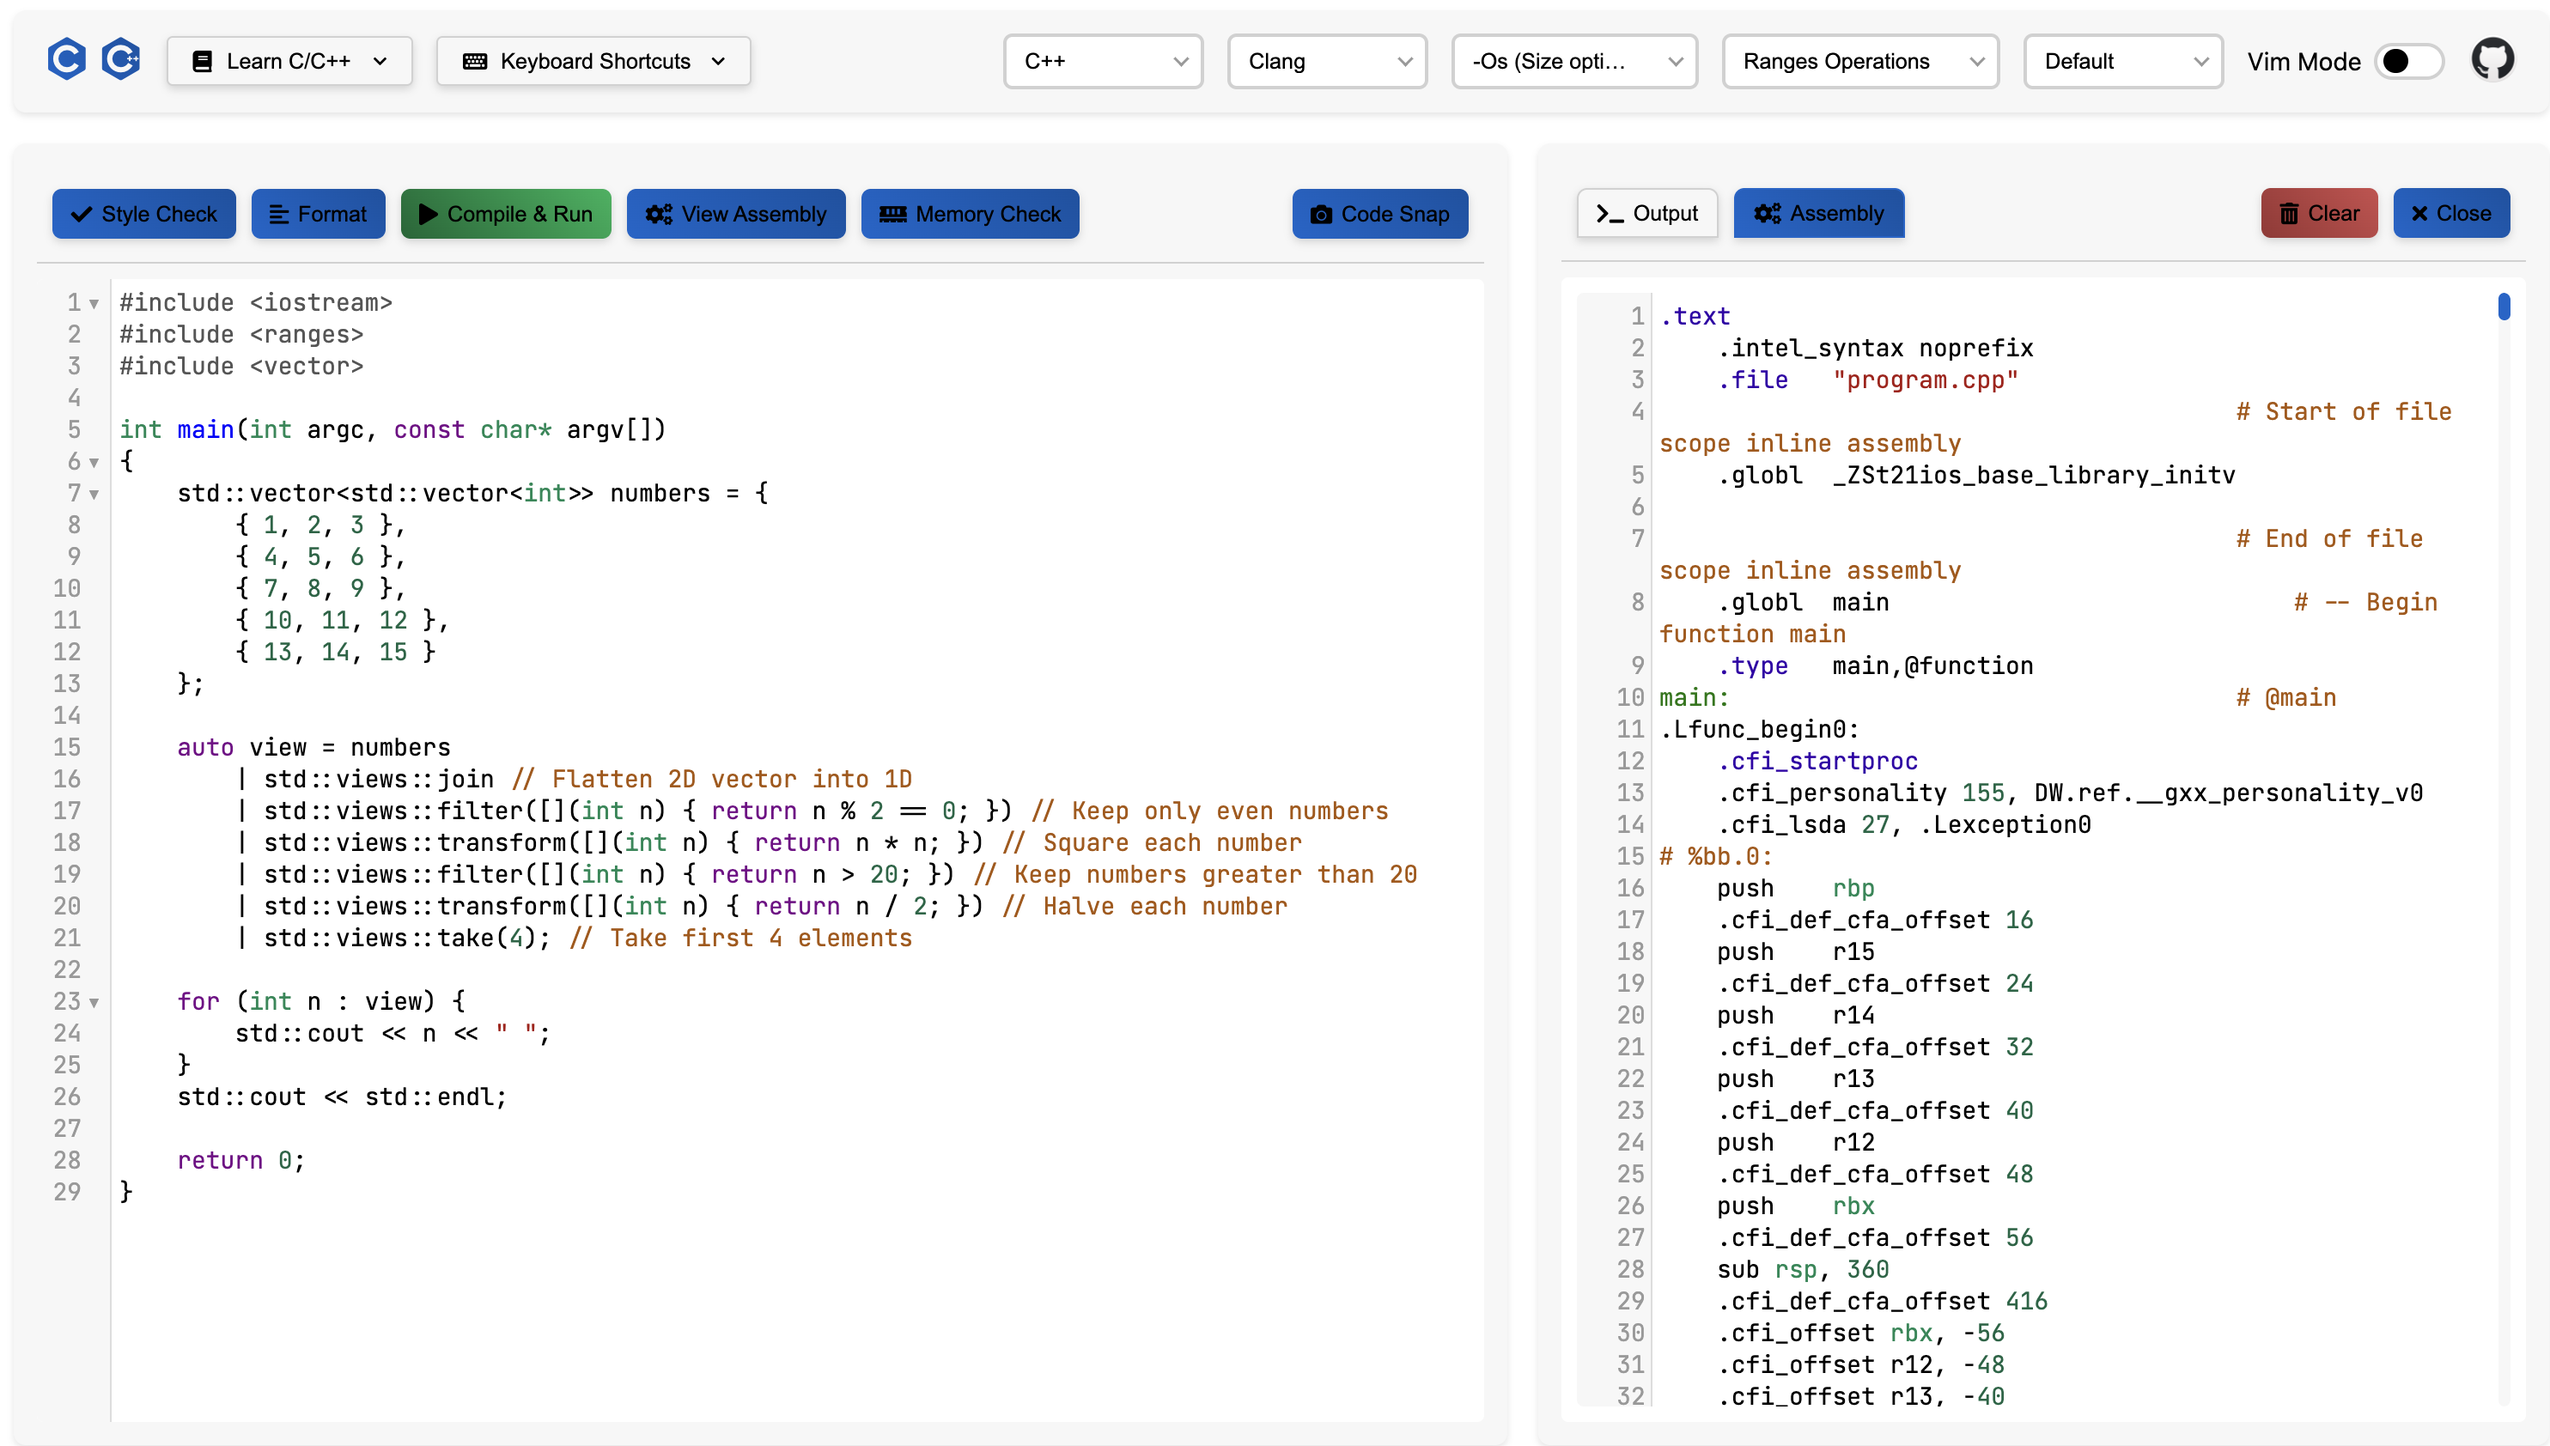
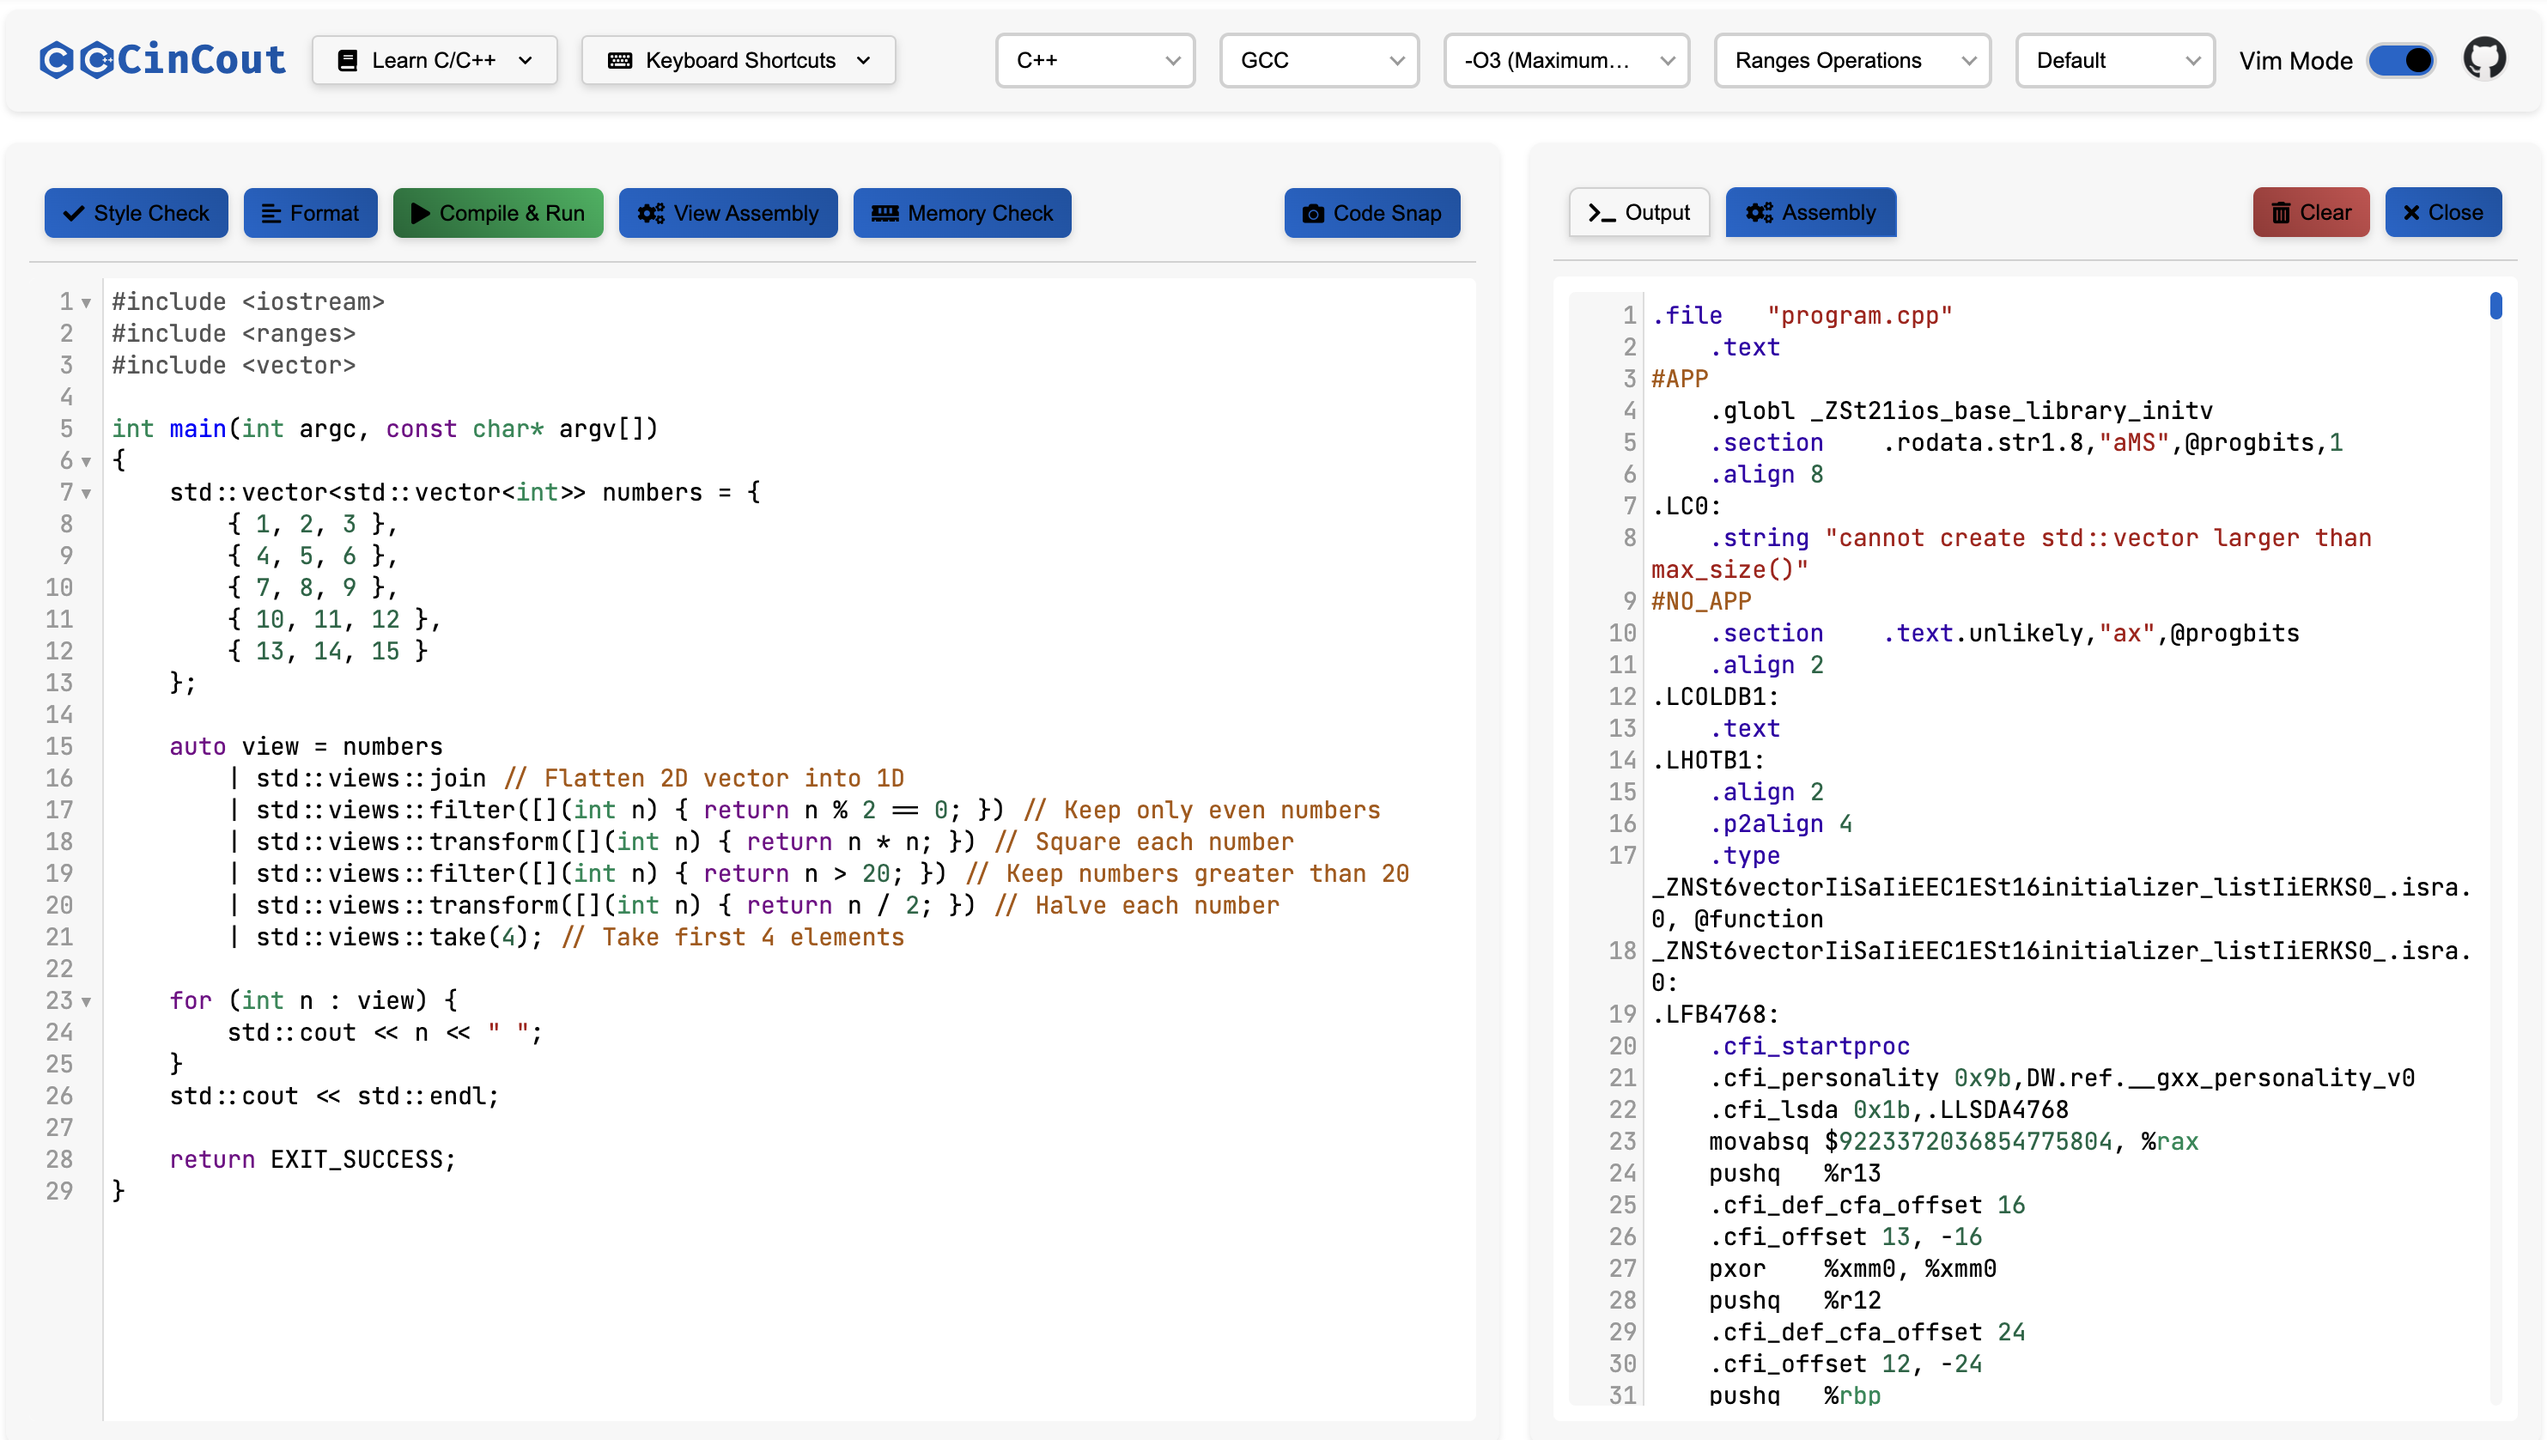
feat: add Dockerfile for containerized deployment and update README with Docker instructions

diff --git a/frontend/index.html b/frontend/index.html
@@ -81,14 +81,7 @@
 
                 <select id="template"></select>
                 <select id="theme-select">
-                    <option value="default">Default</option>
-                    <option value="nord">Nord</option>
-                    <option value="dracula">Dracula</option>
-                    <option value="monokai">Monokai</option>
-                    <option value="material">Material</option>
-                    <option value="ayu-dark">Ayu Dark</option>
-                    <option value="gruvbox-dark">Gruvbox Dark</option>
-                    <option value="seti">Seti</option>
+                    <!-- Theme options will be dynamically generated by script -->
                 </select>
             <div class="toggle-container">
                 <span>Vim Mode</span>

diff --git a/backend/src/routes/compile.ts b/backend/src/routes/compile.ts
@@ -247,7 +247,7 @@ router.post('/', async (req: Request, res: Response) => {
     try {
       if (action === 'assembly' || action === 'both') {
         // Generate assembly code
-        const asmCmd = `${compiler} -S -masm=intel -fno-asynchronous-unwind-tables ${optimizationOption} ${standardOption} "${sourceFile}" -o "${asmFile}"`;
+        const asmCmd = `${compiler} -S -fno-asynchronous-unwind-tables ${optimizationOption} ${standardOption} "${sourceFile}" -o "${asmFile}"`;
         
         try {
           await executeCommand(asmCmd);

diff --git a/README.md b/README.md
@@ -14,48 +14,33 @@ http://39.105.45.170
 
 # Architecture
 
-This is the architecture diagram of the project.
+This is the architecture diagram of the project.Following frontend and backend isolated architecture.
 ![architecture](README/Architecture.png)
 
 ---
 
 # Features ✨
 
-## Frontend Features
-
-| Category         | Feature              | Description                                 | Implementation                |
-| ---------------- | -------------------- | ------------------------------------------- | ----------------------------- |
-| **Editor**       | Syntax Highlighting  | Language-specific highlighting for C/C++    | `frontend/ts/editor.ts`       |
-|                  | Code Folding         | Collapsible code blocks                     | `frontend/ts/editor.ts`       |
-|                  | Auto Brackets        | Automatic closing of brackets               | `frontend/ts/editor.ts`       |
-|                  | Font Size Control    | Ctrl + Mouse Wheel to adjust font size      | `frontend/ts/editor.ts`       |
-|                  | Code Snapshot        | Save code as image with syntax highlighting | `frontend/ts/handlers.ts`     |
-| **UI/UX**        | Multiple Themes      | Different color themes                      | `frontend/ts/themes.ts`       |
-|                  | Responsive Design    | Mobile-friendly layout                      | `frontend/css/responsive.css` |
-|                  | Custom Scrollbars    | Themed scrollbar design                     | `frontend/css/utilities.css`  |
-|                  | Terminal Emulation   | Full terminal emulation with xterm.js       | `frontend/ts/handlers.ts`     |
-| **Connectivity** | WebSocket Heartbeat  | Keep-alive ping/pong mechanism              | `frontend/ts/handlers.ts`     |
-|                  | Auto-Reconnection    | Reconnect when connection drops             | `frontend/ts/websocket.ts`    |
-|                  | Visibility Detection | Resume connections on tab focus             | `frontend/ts/handlers.ts`     |
-| **Templates**    | Code Examples        | Built-in code templates                     | `frontend/ts/templates.ts`    |
-|                  | Template Selection   | Quick-access template dropdown              | `frontend/index.html`         |
-
-## Backend Features
-
-| Category               | Feature              | Description                         | Implementation                        |
-| ---------------------- | -------------------- | ----------------------------------- | ------------------------------------- |
-| **Compilation**        | Multiple Compilers   | Support for GCC and Clang           | `backend/src/routes/compile.ts`       |
-|                        | Optimization Levels  | -O0 to -O3 and -Os options          | `backend/src/routes/compile.ts`       |
-|                        | Assembly View        | View generated assembly code        | `backend/src/routes/compile.ts`       |
-|                        | Interactive Terminal | Real-time program interaction       | `backend/src/utils/sessionManager.ts` |
-| **Code Analysis**      | Style Checking       | Static code analysis with cppcheck  | `backend/src/routes/styleCheck.ts`    |
-|                        | Memory Check         | Memory leak detection with valgrind | `backend/src/routes/memcheck.ts`      |
-|                        | Code Formatting      | Automatic code formatting           | `backend/src/routes/format.ts`        |
-| **Connection**         | WebSocket Management | Server-side connection monitoring   | `backend/src/server.ts`               |
-|                        | Ping/Pong Protocol   | Keep-alive detection system         | `backend/src/routes/compile.ts`       |
-|                        | Resource Limits      | Memory, CPU and timeout controls    | `backend/src/utils/sessionManager.ts` |
-| **Session Management** | Temporary Files      | Secure creation and cleanup         | `backend/src/utils/helpers.ts`        |
-|                        | Process Isolation    | Session-based process management    | `backend/src/utils/sessionManager.ts` |
+| Category          | Feature                 | Description                                  | Implementation                        |
+| ----------------- | ----------------------- | -------------------------------------------- | ------------------------------------- |
+| **Code Editor**   | Syntax Highlighting     | Language-specific highlighting for C/C++     | `frontend/ts/editor.ts`               |
+|                   | Code Folding            | Collapsible code blocks and sections         | `frontend/ts/editor.ts`               |
+|                   | Vim Mode                | Optional Vim keybindings for editor          | `frontend/ts/editor.ts`               |
+|                   | Code Snapshot           | Save code as image with syntax highlighting  | `frontend/ts/handlers.ts`             |
+| **Compilation**   | Multiple Compilers      | Support for GCC and Clang                    | `backend/src/routes/compile.ts`       |
+|                   | Optimization Levels     | Various optimization flags (-O0 to -O3, -Os) | `backend/src/routes/compile.ts`       |
+|                   | Assembly Generation     | View generated assembly code                 | `backend/src/routes/compile.ts`       |
+| **Execution**     | Real-time Output        | Live program output via terminal             | `frontend/ts/handlers.ts`             |
+|                   | Interactive Terminal    | PTY-based terminal for interactive programs  | `backend/src/utils/sessionManager.ts` |
+|                   | WebSocket Communication | Bidirectional real-time communication        | `frontend/ts/websocket.ts`            |
+|                   | Session Management      | Isolated execution environments per session  | `backend/src/utils/sessionManager.ts` |
+| **Code Analysis** | Style Checking          | Static code analysis with cppcheck           | `backend/src/routes/styleCheck.ts`    |
+|                   | Memory Analysis         | Memory leak detection with Valgrind          | `backend/src/routes/memcheck.ts`      |
+|                   | Code Formatting         | Automatic code formatting with clang-format  | `backend/src/routes/format.ts`        |
+| **UI/UX**         | Multiple Themes         | Various editor and terminal color schemes    | `frontend/ts/themes.ts`               |
+|                   | Responsive Design       | Mobile-friendly interface and layout         | `frontend/css/responsive.css`         |
+|                   | Tab System              | Tabbed interface for outputs and assembly    | `frontend/css/layout.css`             |
+|                   | Keyboard Shortcuts      | Customized shortcuts for common actions      | `frontend/ts/shortcuts.ts`            |
 
 ---
 
@@ -74,22 +59,6 @@ This is the architecture diagram of the project.
 | Format Code      | Alt + 2       | ^ + 2      |
 | Style Check      | Alt + 3       | ^ + 3      |
 | Memory Check     | Alt + 4       | ^ + 4      |
-
----
-
-# Themes 🎨
-
-| Theme        | Description                                            |
-| ------------ | ------------------------------------------------------ |
-| Default      | Clean and minimalist design with balanced contrast     |
-| Nord         | Arctic-inspired color scheme with cool, soothing tones |
-| Dracula      | Dark theme with vivid, high-contrast colors            |
-| Monokai      | Classic dark theme favored by developers               |
-| Material     | Modern design following Material guidelines            |
-| Ayu Dark     | Soft dark theme with warm accents                      |
-| Gruvbox Dark | Retro-style theme with earthy colors                   |
-| Seti         | Modern dark theme with bright accent colors            |
-| Panda Syntax | Friendly dark theme with pastel accents                |
 
 ---
 
@@ -114,14 +83,14 @@ sudo apt install nodejs npm gcc g++ clang clang-format valgrind cppcheck
 git clone https://github.com/Pp3ng/CinCout.git
 ```
 
-2. build
+2. Build and start the application:
 
 ```bash
-# install dependencies
+# Install dependencies and build both frontend and backend
 npm install
-# build frontend and backend
 npm run build
-# start the server
+
+# Start the server
 npm start
 ```
 
@@ -129,51 +98,28 @@ npm start
 
 ---
 
-## Run as a Background Service (Optional)
+## Run with Docker (Recommended)
 
-### Using PM2 to Manage the Application
+Docker provides an isolated environment with all dependencies pre-installed, making deployment simple and ensures safety and security.
 
-1. Install PM2:
+please make sure you have Docker installed on your system. You can follow the official [Docker installation guide](https://docs.docker.com/get-docker/) for your operating system.
 
-```bash
-# Install PM2 globally
-npm install pm2 -g
-```
+This project provides a Dockerfile that allows you to run the application in a Docker container.
 
-2. Start the application with PM2:
+### Build the Docker Image
 
 ```bash
-# Build the TypeScript code
-npm run build
-
-# Start the application
-pm2 start dist/server.js --name "CinCout"
-
-# Set up startup script to run on server boot
-pm2 startup
-pm2 save
+# Navigate to the project directory
+cd CinCout
+# Build the Docker image
+docker build -t cincout:latest .
+# run the Docker container
+docker run -d -p 9527:9527 --name cincout --restart unless-stopped cincout:latest
 ```
 
-3. Common PM2 commands:
+Then you can access the application at http://localhost:9527
 
-```bash
-# Check application status
-pm2 status
-
-# Restart application
-pm2 restart CinCout
-
-# View logs
-pm2 logs CinCout
-
-# Stop application
-pm2 stop CinCout
-
-# Delete application from PM2
-pm2 delete CinCout
-```
-
-### Using Nginx as a Reverse Proxy (Recommended)
+### Using Nginx as a Reverse Proxy (Optional)
 
 1. Install Nginx:
 
